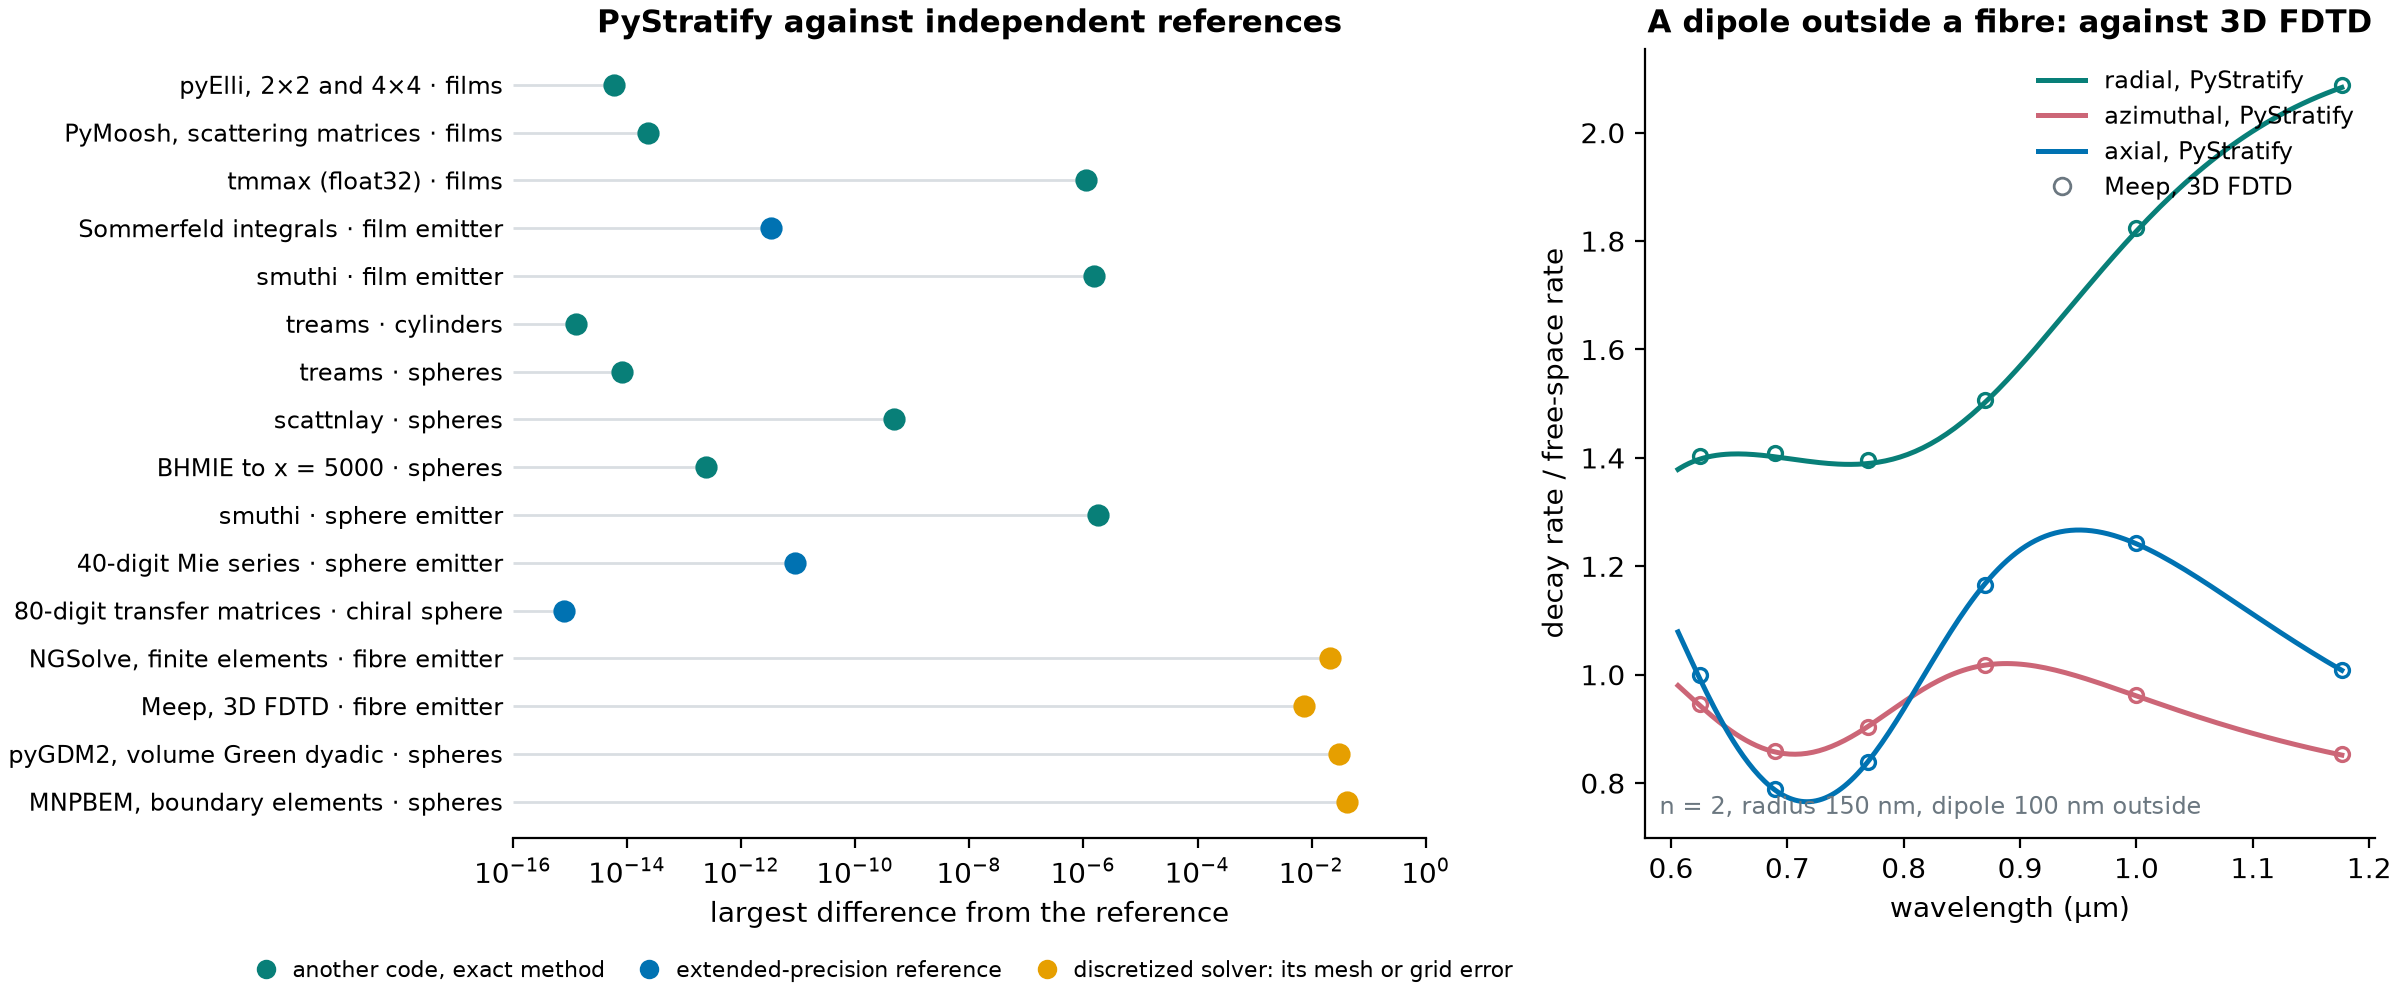
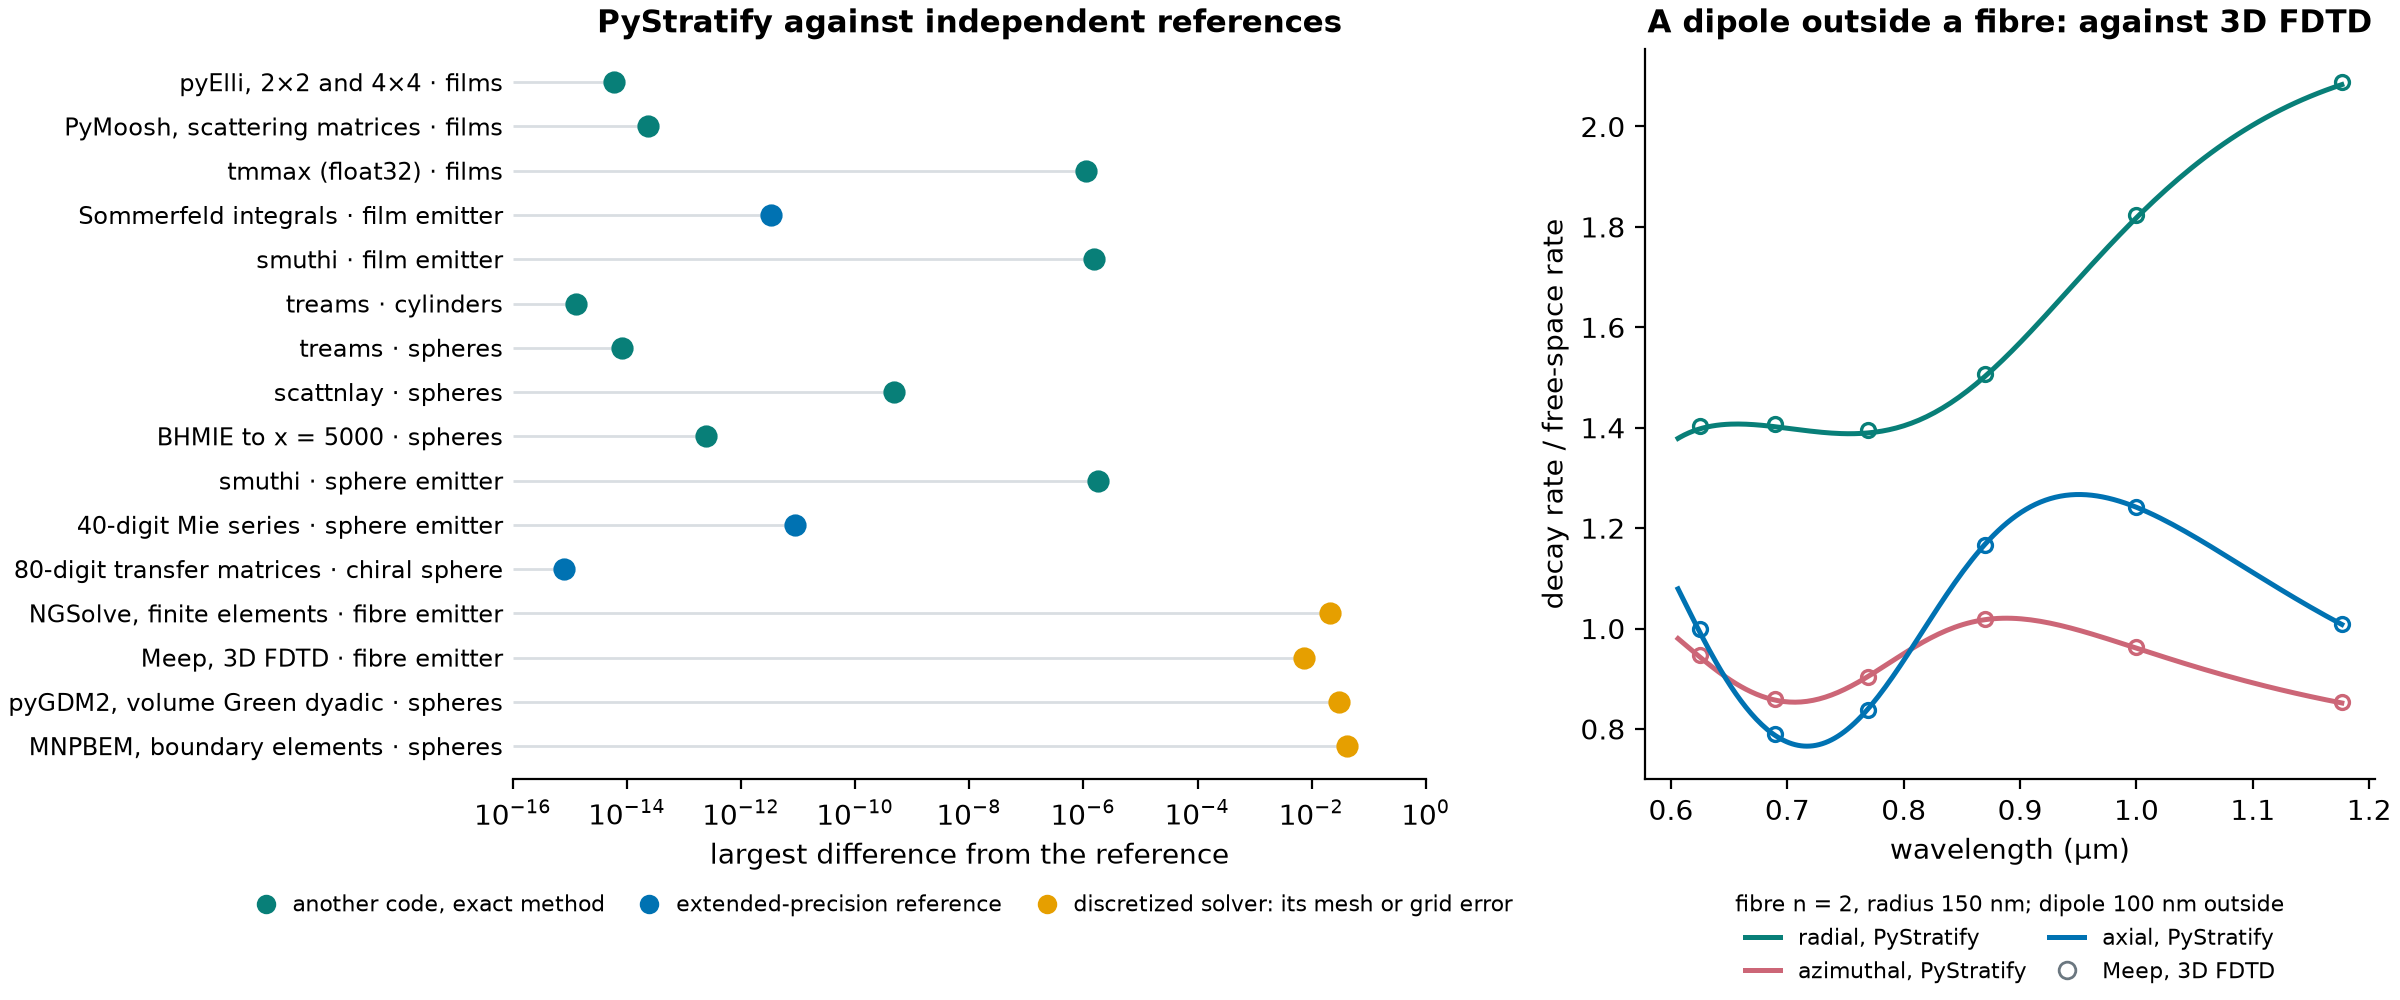
README: the fibre panel's legend below the axes (it crossed the radial curve); badges refresh hourly

diff --git a/docs/images/readme_figures.py b/docs/images/readme_figures.py
@@ -207,9 +207,9 @@ def verification():
     right.plot([], [], "o", mfc="none", color=GREY, label="Meep, 3D FDTD")
     right.set(title="A dipole outside a fibre: against 3D FDTD", xlabel="wavelength (µm)",
               ylabel="decay rate / free-space rate")
-    right.legend(loc="upper right")
-    right.text(0.02, 0.03, "n = 2, radius 150 nm, dipole 100 nm outside", transform=right.transAxes, color=GREY,
-               fontsize=8.5)
+    # below the axes, as on the left: inside, every corner is crossed by a curve
+    right.legend(loc="upper center", bbox_to_anchor=(0.5, -0.13), ncol=2, fontsize=8, handlelength=1.6,
+                 columnspacing=1, title="fibre n = 2, radius 150 nm; dipole 100 nm outside", title_fontsize=8)
     fig.savefig(HERE / "verification.png")
     plt.close(fig)
 

diff --git a/README.md b/README.md
@@ -1,7 +1,7 @@
 # PyStratify
 
-[![PyPI](https://img.shields.io/pypi/v/pystratify)](https://pypi.org/project/pystratify/)
-[![Python](https://img.shields.io/pypi/pyversions/pystratify)](https://pypi.org/project/pystratify/)
+[![PyPI](https://img.shields.io/pypi/v/pystratify?cacheSeconds=3600)](https://pypi.org/project/pystratify/)
+[![Python](https://img.shields.io/pypi/pyversions/pystratify?cacheSeconds=3600)](https://pypi.org/project/pystratify/)
 [![tests](https://github.com/multilayerapp/PyStratify/actions/workflows/tests.yml/badge.svg)](https://github.com/multilayerapp/PyStratify/actions/workflows/tests.yml)
 [![DOI](https://zenodo.org/badge/DOI/10.5281/zenodo.23287561.svg)](https://doi.org/10.5281/zenodo.23287561)
 [![License: GPL v3+](https://img.shields.io/badge/license-GPL--3.0--or--later-blue)](https://github.com/multilayerapp/PyStratify/blob/main/LICENSE)
